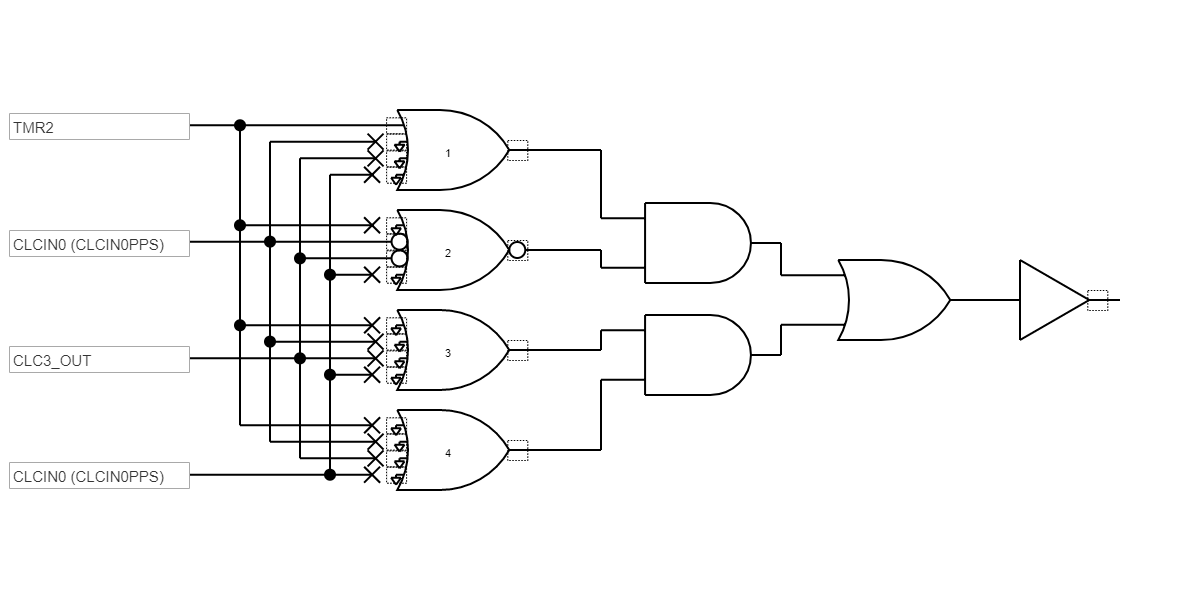
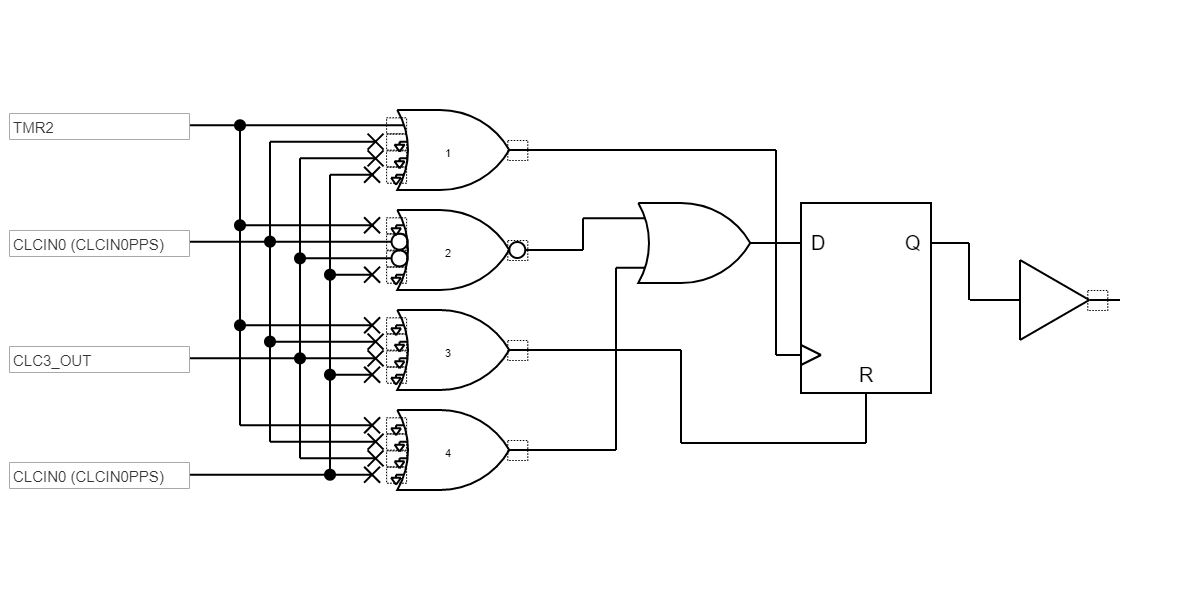
MPAE-10373: Fixed configuration error in 2 CLC example. Rebuild all hex files.

diff --git a/2 CLC Debounce/DebounceQ40_2CLC.X/mcc_generated_files/clc/src/clc3.c b/2 CLC Debounce/DebounceQ40_2CLC.X/mcc_generated_files/clc/src/clc3.c
@@ -90,8 +90,8 @@ void CLC3_Initialize(void)
     CLCnGLS3 = 0x0;
     // LCOUT 0x00; 
     CLCDATA = 0x0;
-    // LCMODE AND-OR; LCINTN disabled; LCINTP disabled; LCEN enabled; 
-    CLCnCON = 0x80;
+    // LCMODE 2-input D flip-flop with R; LCINTN disabled; LCINTP disabled; LCEN enabled; 
+    CLCnCON = 0x85;
 
 }
 

diff --git a/2 CLC Debounce/DebounceQ40_2CLC.X/mcc_generated_files/clc/src/clc1.c b/2 CLC Debounce/DebounceQ40_2CLC.X/mcc_generated_files/clc/src/clc1.c
@@ -74,8 +74,8 @@ void CLC1_Initialize(void)
     CLCnPOL = 0x0;
     // LCD1S TMR2; 
     CLCnSEL0 = 0x10;
-    // LCD2S CLC2_OUT; 
-    CLCnSEL1 = 0x23;
+    // LCD2S CLCIN0 (CLCIN0PPS); 
+    CLCnSEL1 = 0x0;
     // LCD3S CLCIN0 (CLCIN0PPS); 
     CLCnSEL2 = 0x0;
     // LCD4S CLCIN0 (CLCIN0PPS); 
